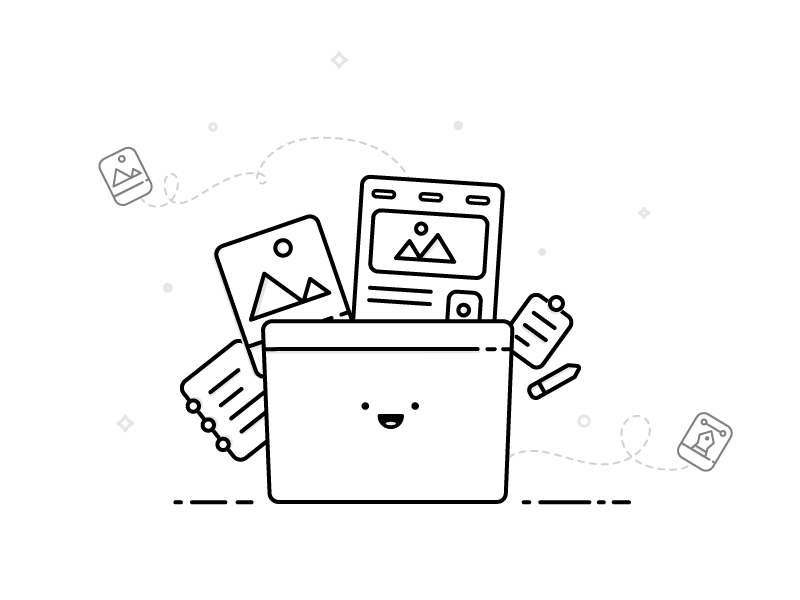
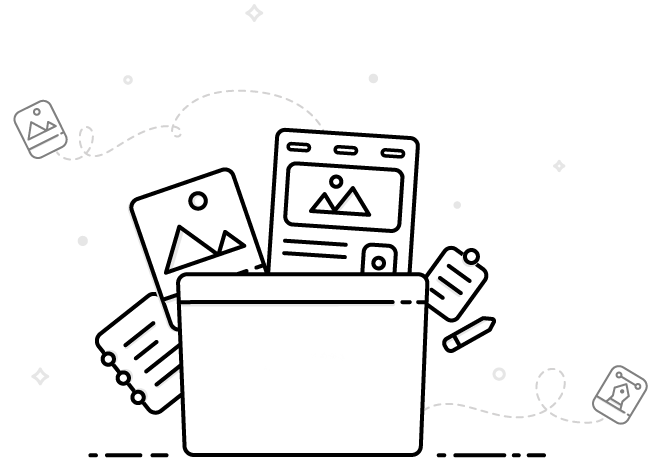
improve homepage

diff --git a/app/app.tsx b/app/app.tsx
@@ -1,4 +1,3 @@
-import Avatar from '@material-ui/core/Avatar';
 import Box from '@material-ui/core/Box';
 import Button from '@material-ui/core/Button';
 import Container from '@material-ui/core/Container';
@@ -6,13 +5,13 @@ import CssBaseline from '@material-ui/core/CssBaseline';
 import Paper from '@material-ui/core/Paper';
 import Typography from '@material-ui/core/Typography';
 import { createMuiTheme, makeStyles } from '@material-ui/core/styles';
-import EqualizerIcon from '@material-ui/icons/Equalizer';
 import ThemeProvider from '@material-ui/styles/ThemeProvider';
 import React, { useState } from 'react';
 import { render } from 'react-dom';
 import { useGoogleLogin } from 'react-google-login';
 import Copyright from './copyright';
 import DashboardContainer from './dashboard-container';
+import headerImage from './images/designer_file_case.png';
 
 const bodyFontFamily = 'Arial, sans-serif;';
 
@@ -66,7 +65,7 @@ const useStyles = makeStyles((theme) => ({
     padding: theme.spacing(6, 8, 6, 8),
   },
   submit: {
-    margin: theme.spacing(3, 0, 2),
+    margin: theme.spacing(4, 0, 2),
     padding: theme.spacing(2, 6),
     borderRadius: 25,
   },
@@ -75,7 +74,14 @@ const useStyles = makeStyles((theme) => ({
   },
   body: {
     marginTop: theme.spacing(1),
+    color: theme.palette.text.primary,
+  },
+  hint: {
+    marginTop: theme.spacing(2),
     color: theme.palette.text.hint,
+  },
+  image: {
+    maxWidth: 210,
   },
 }));
 
@@ -135,15 +141,13 @@ const App = () => {
         ) : (
           <Container component="main" maxWidth="sm">
             <Paper elevation={0} className={classes.centerPaper}>
-              <Avatar className={classes.avatar}>
-                <EqualizerIcon />
-              </Avatar>
+              <img src={headerImage} className={classes.image} />
               <Typography variant="h1">Time</Typography>
               <Typography variant="body2" className={classes.body}>
-                This application does not store your data or send your data to any third parties.
-                The application is hosted as a ‘static website’ where the application code is served
-                in the same way an image is served. All data processing is done on your computer and
-                not on a web server out of your control.
+                Time brings your data together in one place. Pivot your meetings by what documents
+                the attendees have edited recently. By associating person, a time slot and documents
+                together, Time infers associations between information, making the information
+                easier to find. Prepare for your next meeting in a flash!
               </Typography>
               <Button
                 variant="contained"
@@ -155,6 +159,11 @@ const App = () => {
                 Log In
               </Button>
             </Paper>
+            <Typography variant="body2" className={classes.hint}>
+              This application does not store your data or send your data to any third parties. Your
+              browser retrieves your data directly from the Google API and processes the data on
+              your computer.
+            </Typography>
             <Box mt={8}>
               <Copyright />
             </Box>

diff --git a/app/copyright.tsx b/app/copyright.tsx
@@ -1,16 +1,27 @@
+import { makeStyles } from '@material-ui/core';
 import Link from '@material-ui/core/Link';
 import Typography from '@material-ui/core/Typography';
 import React from 'react';
 
-const Copyright = () => (
-  <Typography variant="body2" color="textSecondary" align="center">
-    {'Copyright © '}
-    <Link color="inherit" href="https://www.zamiang.com">
-      Brennan Moore
-    </Link>{' '}
-    {new Date().getFullYear()}
-    {'.'}
-  </Typography>
-);
+const useStyles = makeStyles((theme) => ({
+  body: {
+    marginTop: theme.spacing(1),
+    color: theme.palette.text.hint,
+  },
+}));
+
+const Copyright = () => {
+  const styles = useStyles();
+  return (
+    <Typography variant="body2" className={styles.body} align="center">
+      {'Copyright © '}
+      <Link color="inherit" href="https://www.zamiang.com">
+        Brennan Moore
+      </Link>{' '}
+      {new Date().getFullYear()}
+      {'.'}
+    </Typography>
+  );
+};
 
 export default Copyright;
